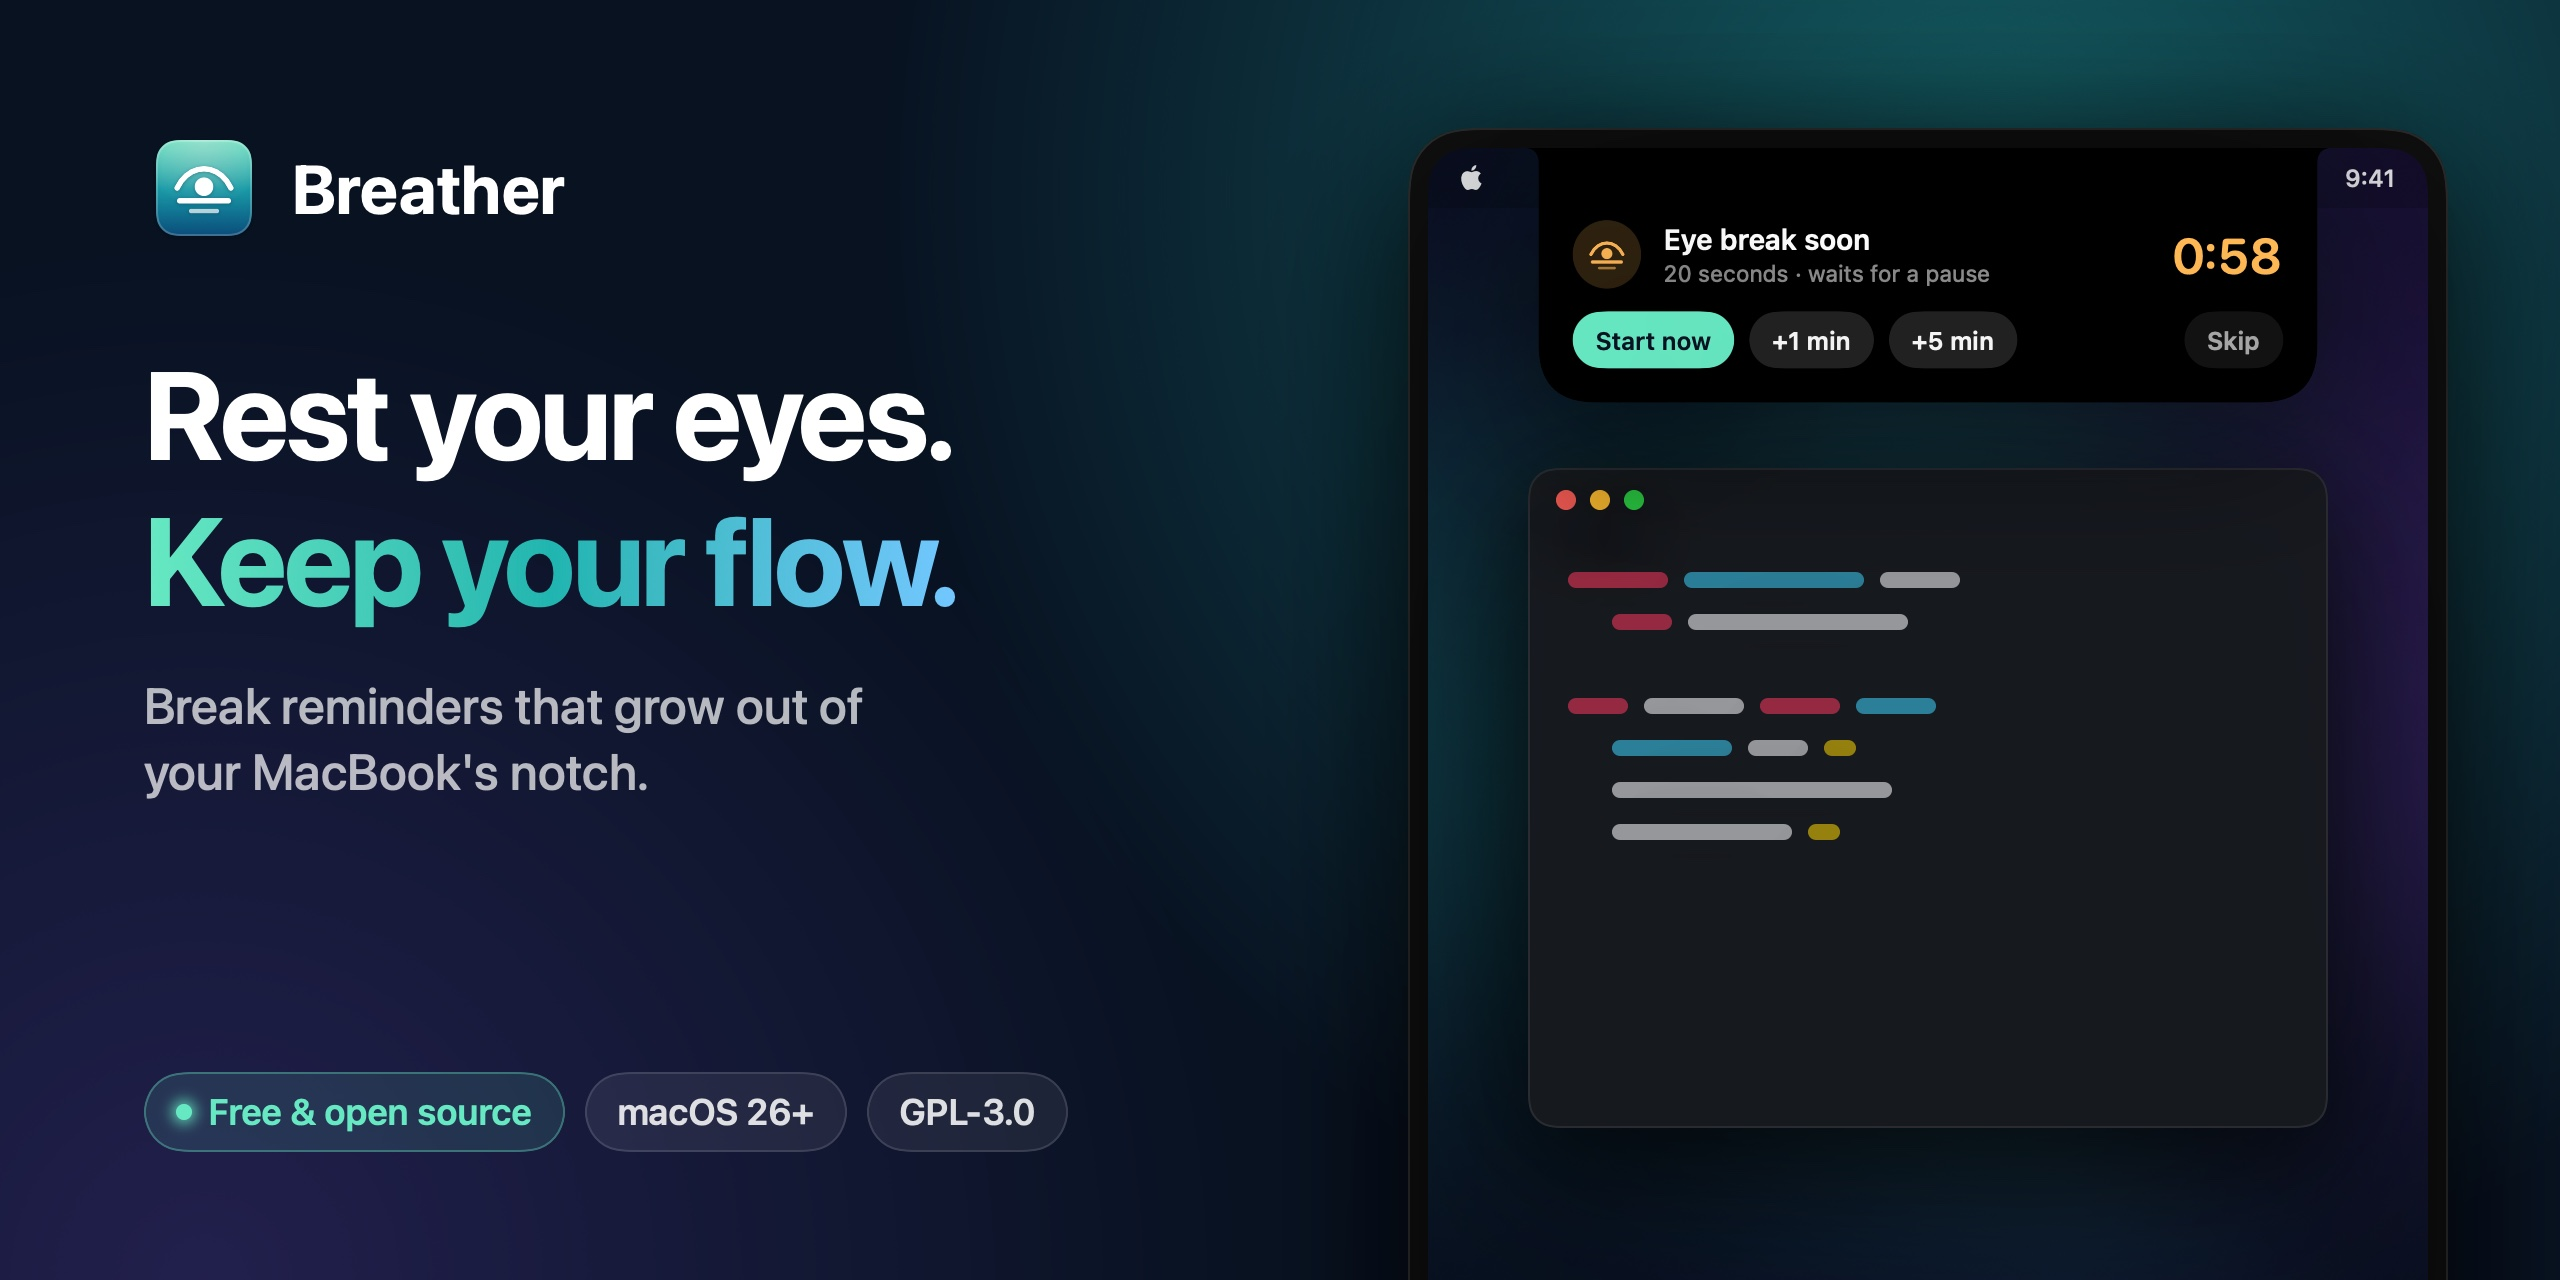
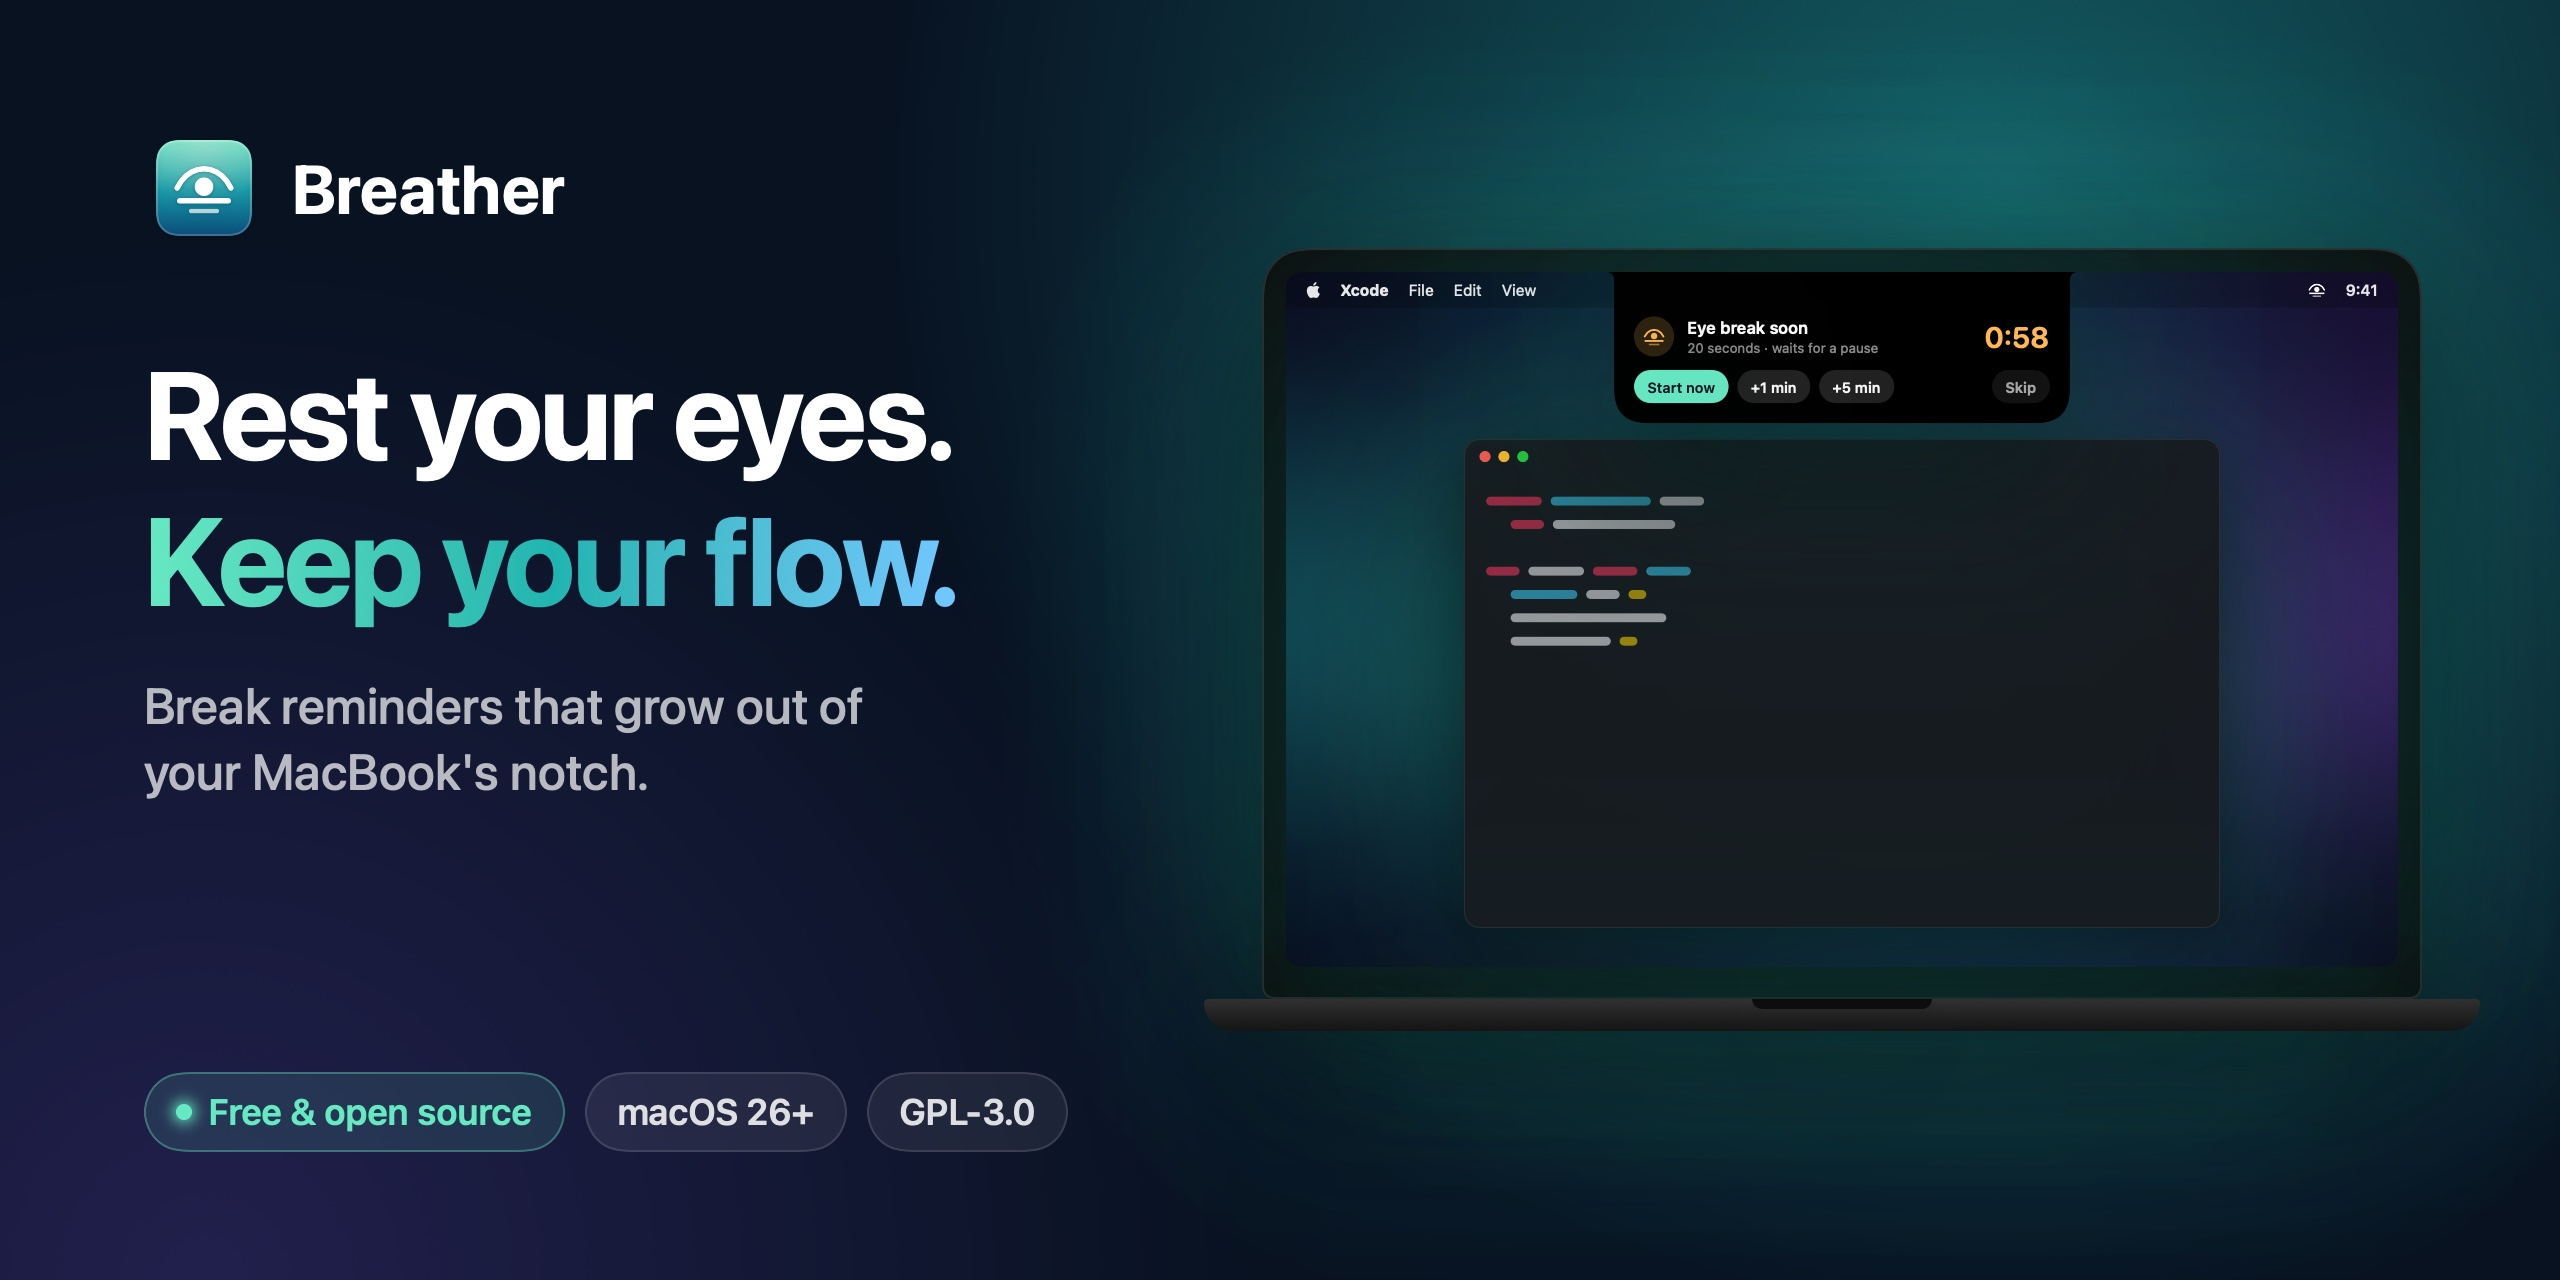
Social card: a full MacBook on the right

Changed region(s): [[0.4688, 0.0625, 0.9688, 0.9688], [0.5938, 0.875, 0.9062, 0.9062], [0.75, 0.7188, 0.8125, 0.7812]]

diff --git a/Sources/Breather/Support/AssetRenderer.swift b/Sources/Breather/Support/AssetRenderer.swift
@@ -221,9 +221,9 @@ private struct SocialCard: View {
             RadialGradient(colors: [Color(red: 0.32, green: 0.22, blue: 0.62).opacity(0.35), .clear],
                            center: UnitPoint(x: 0.08, y: 1.0), startRadius: 0, endRadius: 520)
 
-            screen
-                .frame(width: 520, height: size.height)
-                .offset(x: size.width - 520 - 56, y: 64)
+            macBook
+                .frame(width: 580 * 1.1)
+                .offset(x: size.width - 580 * 1.1 - 40, y: (size.height - 392) / 2)
 
             VStack(alignment: .leading, spacing: 0) {
                 HStack(spacing: 14) {
@@ -255,38 +255,64 @@ private struct SocialCard: View {
         .clipped()
     }
 
-    /// The top of a MacBook display with the island grown out of its notch.
-    private var screen: some View {
-        let notch = CGSize(width: 150, height: 30)
-        return ZStack(alignment: .top) {
-            AuroraBackground(animated: false)
-            LinearGradient(colors: [.clear, Brand.night.opacity(0.55)], startPoint: .top, endPoint: .bottom)
-            // A window you're working in, behind the island.
-            CodeWindow()
-                .frame(width: 400, height: 330)
-                .padding(.top, 160)
-            // Menu bar.
-            HStack(spacing: 14) {
-                Image(systemName: "apple.logo").font(.system(size: 13, weight: .semibold))
-                Spacer()
-                Text("9:41").font(.system(size: 12, weight: .medium))
+    /// A MacBook with the island grown out of its notch over the app you're working in.
+    private var macBook: some View {
+        let outer: CGFloat = 580, bezel: CGFloat = 12
+        let inner = outer - 2 * bezel
+        return VStack(spacing: 0) {
+            display
+                .frame(width: 1000, height: 625)
+                .scaleEffect(inner / 1000, anchor: .topLeading)
+                .frame(width: inner, height: inner * 0.625, alignment: .topLeading)
+                .clipShape(RoundedRectangle(cornerRadius: 8, style: .continuous))
+                .padding([.horizontal, .top], bezel)
+                .padding(.bottom, 16)
+                .background(
+                    UnevenRoundedRectangle(topLeadingRadius: 22, bottomLeadingRadius: 6, bottomTrailingRadius: 6,
+                                           topTrailingRadius: 22, style: .continuous)
+                        .fill(Color(white: 0.045))
+                        .overlay(UnevenRoundedRectangle(topLeadingRadius: 22, bottomLeadingRadius: 6, bottomTrailingRadius: 6,
+                                                        topTrailingRadius: 22, style: .continuous)
+                            .strokeBorder(.white.opacity(0.13), lineWidth: 1))
+                )
+            // The base, with the thumb notch for opening the lid.
+            ZStack(alignment: .top) {
+                UnevenRoundedRectangle(topLeadingRadius: 2, bottomLeadingRadius: 14, bottomTrailingRadius: 14,
+                                       topTrailingRadius: 2, style: .continuous)
+                    .fill(LinearGradient(colors: [Color(white: 0.19), Color(white: 0.08)], startPoint: .top, endPoint: .bottom))
+                UnevenRoundedRectangle(bottomLeadingRadius: 6, bottomTrailingRadius: 6)
+                    .fill(Color(white: 0.05))
+                    .frame(width: 90, height: 5)
             }
-            .foregroundStyle(.white.opacity(0.85))
-            .padding(.horizontal, 16)
-            .frame(height: 30)
-            .background(.black.opacity(0.18))
-            SnapshotIsland(app: app, content: .headsUp(.short), notch: notch)
-                .scaleEffect(0.95, anchor: .top)
+            .frame(width: outer * 1.1, height: 16)
         }
-        .clipShape(UnevenRoundedRectangle(topLeadingRadius: 20, topTrailingRadius: 20, style: .continuous))
-        .padding(10)
-        .background(
-            UnevenRoundedRectangle(topLeadingRadius: 30, topTrailingRadius: 30, style: .continuous)
-                .fill(Color(white: 0.06))
-                .overlay(UnevenRoundedRectangle(topLeadingRadius: 30, topTrailingRadius: 30, style: .continuous)
-                    .strokeBorder(.white.opacity(0.12), lineWidth: 1))
-        )
-        .shadow(color: .black.opacity(0.55), radius: 40, y: 20)
+        .shadow(color: .black.opacity(0.6), radius: 40, y: 24)
+        .shadow(color: Brand.teal.opacity(0.18), radius: 60)
+    }
+
+    /// The display, laid out at 1000×625 like the website demo.
+    private var display: some View {
+        ZStack(alignment: .top) {
+            AuroraBackground(animated: false)
+            CodeWindow()
+                .frame(width: 680, height: 440)
+                .padding(.top, 150)
+            HStack(spacing: 18) {
+                Image(systemName: "apple.logo").font(.system(size: 15, weight: .semibold))
+                Text("Xcode").font(.system(size: 14, weight: .bold))
+                Text("File").font(.system(size: 14))
+                Text("Edit").font(.system(size: 14))
+                Text("View").font(.system(size: 14))
+                Spacer()
+                BreatherMark(color: .white).frame(width: 16, height: 16)
+                Text("9:41").font(.system(size: 14, weight: .medium))
+            }
+            .foregroundStyle(.white.opacity(0.9))
+            .padding(.horizontal, 18)
+            .frame(height: 32)
+            .background(.black.opacity(0.2))
+            SnapshotIsland(app: app, content: .headsUp(.short), notch: CGSize(width: 170, height: 32))
+        }
     }
 }
 
